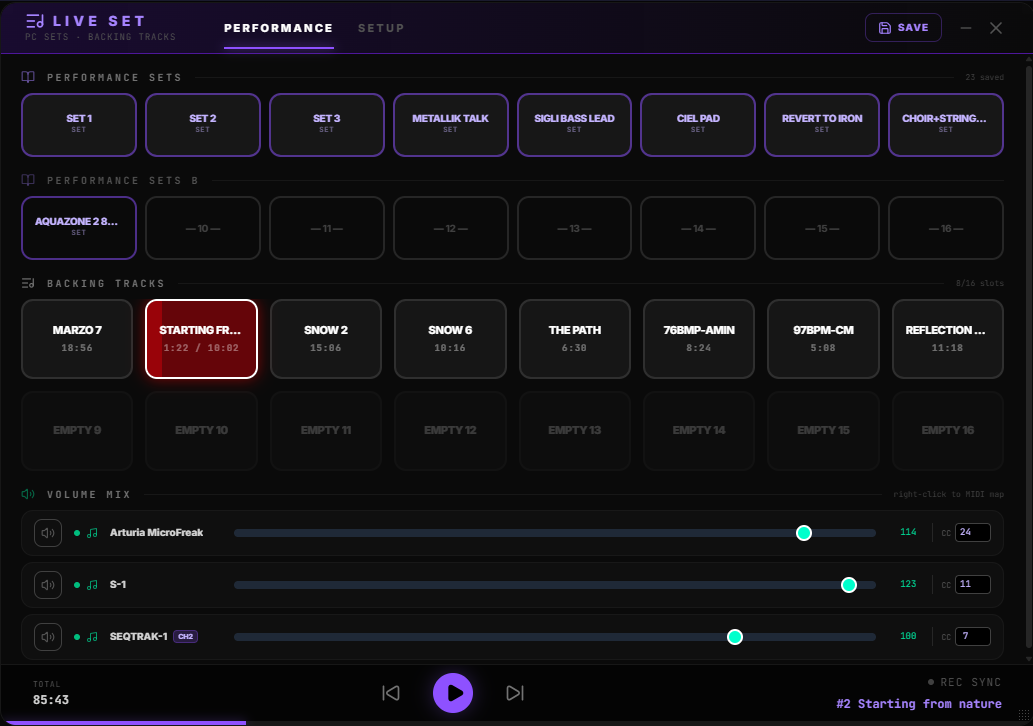
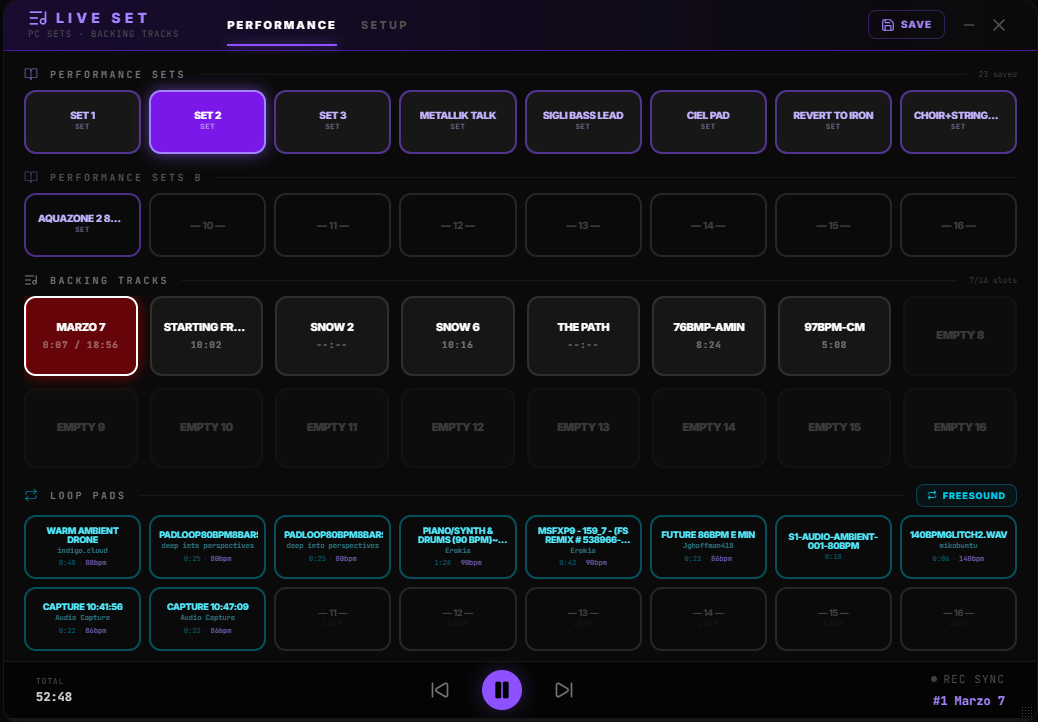
Fixed guides for Audio Capture / Freesound Browser / Live Set.

diff --git a/src/components/FreesoundBrowser.vue b/src/components/FreesoundBrowser.vue
@@ -276,6 +276,20 @@ onUnmounted(() => {
         :style="{ left: pos.x + 'px', top: pos.y + 'px', width: size.w + 'px', height: size.h + 'px' }"
       >
 
+        <!-- ── Capture busy overlay ─────────────────────────────────── -->
+        <Transition name="fade">
+          <div
+            v-if="isSendingToCapture"
+            class="absolute inset-0 z-50 flex flex-col items-center justify-center gap-4 bg-black/70 backdrop-blur-sm rounded-2xl pointer-events-auto select-none"
+          >
+            <div class="w-12 h-12 rounded-full border-2 border-violet-500 border-t-transparent animate-spin" />
+            <div class="text-center">
+              <p class="text-sm font-black uppercase tracking-widest text-white">Capturing…</p>
+              <p class="text-[10px] font-mono text-violet-400 mt-1">Please wait, fetching sound</p>
+            </div>
+          </div>
+        </Transition>
+
         <!-- ── Header / drag handle ───────────────────────────────── -->
         <div
           @mousedown="startDrag"
@@ -726,6 +740,12 @@ onUnmounted(() => {
 </template>
 
 <style scoped>
+.fade-enter-active, .fade-leave-active {
+  transition: opacity 0.2s ease;
+}
+.fade-enter-from, .fade-leave-to {
+  opacity: 0;
+}
 .fade-down-enter-active, .fade-down-leave-active {
   transition: opacity 0.15s ease, transform 0.15s ease;
 }

diff --git a/docs/guides/SYCORE_LIVE_PERFORMANCE_PAD.md b/docs/guides/SYCORE_LIVE_PERFORMANCE_PAD.md
@@ -4,7 +4,7 @@
 
 1. **Performance Sets** — 16 one-touch recall pads for complete device program change states
 2. **Backing Tracks** — a 16-slot playlist pad grid for click-and-play audio tracks
-3. **Volume Mix** — per-device MIDI CC volume faders with mute and MIDI learn
+3. **Loop Pads** — 16 one-touch recall pads for click-and-loop audio, can be mapped to freesound.org sounds
 
 All three can run simultaneously. MIDI mappings allow any pad, track, or fader to be triggered from a hardware controller. Pad layouts can be saved and recalled as **Snapshots**.
 
@@ -35,6 +35,8 @@ Three sub-tabs for configuration:
 ---
 
 ## Performance Sets
+
+<img src="/help/guides/sycore-live-set-performance.png"/>
 
 ### What is a Performance Set?
 
@@ -67,6 +69,8 @@ Right-click any pad to open the MIDI learn context menu. Param name: `lpp_set_N`
 
 ## Backing Tracks
 
+<img src="/help/guides/sycore-live-set-backing-tracks.png"/>
+
 The backing track section uses the `PlaylistPadGrid` component — 16 clickable track pads driven by `livePadStore.playlist`.
 
 - Click a pad to start that track immediately (dispatches `playlist-play` with crossfade).
@@ -88,43 +92,51 @@ A persistent transport bar at the bottom of the Performance tab:
 
 ### REC SYNC
 
-When **REC SYNC** is on and a backing track is playing, the footer background pulses red. This is a visual indicator for the performer to know that backing track playback is synced to Audio Capture recording.
+The **REC SYNC** indicator in the player footer has two independent sources:
 
+| Source | Behaviour |
+|--------|-----------|
+| **MidiSyncMatrix** (Backing Track → Capture or Loop Pads → Capture) | Persistent global setting — survives page reload, shared with all consumers |
+| **Local REC SYNC toggle** (in the Live Performance Pad footer) | Session-only — never writes to the sync store, does not affect MidiSyncMatrix settings |
+
+The indicator lights up when **any** of the three is active. Clicking it toggles only the local session flag; it never overrides the Matrix settings.
+
+When the local toggle is on and a backing track starts or stops, `capture-start-rec` / `capture-stop-rec` events are dispatched to Audio Capture. The footer background pulses red while both local sync and playback are active.
 
 ---
 
-## Volume Mix
+## Loop Pads
 
-Appears when at least one registered device.
+<img src="/help/guides/sycore-live-set-loop-pads.png"/>
 
-### Per-Device Row
+A 16-pad grid (two rows of 8) for triggering looped audio samples. Pads are independent of Performance Sets and can run simultaneously with a backing track.
 
-```
-[🔇 Mute]  ● 🎵  Roland S-1  CH3  [─────────────────────]  84  CC[7]
-```
+### Assigning a sound
 
-| Element | Description |
-|---------|-------------|
-| Mute button | Wraps `port.send()` to block Note On/Off silently; sends `CC 123` first |
-| Online dot | Green if the MIDI output is detected; grey if offline |
-| Device type icon | CPU = audio-interface; Music = instrument |
-| Name + CH badge | CH badge shows only for multitimbral (`instrument-multi`) devices |
-| Volume slider | 0–127; sends the configured CC on value change |
-| CC# input | Which CC to send for volume (default 7 = MIDI Volume) |
+| Method | How |
+|--------|-----|
+| **Freesound Browser** | Click **Pad** on any search result, pick a slot in the pad picker |
+| **Local file** | Click the folder icon on an empty pad — loads MP3/WAV/OGG directly |
+| **Audio Capture** | Click **→ Loop Pad** in Audio Capture, pick a slot in the modal |
 
-### Multitimbral Devices
+Assignments are saved to localStorage (`SYCORE_LPP_LOOP_PADS`) and restored on reload. Sounds from Freesound or Audio Capture are also cached in IndexedDB so they play without re-downloading.
 
-For `instrument-multi` devices, the mix key includes the current MIDI channel: `DeviceName:CH`. Each MIDI channel of a multitimbral device has its own stored volume and CC number. The badge `CH3` updates when the active part changes.
+### Playing and stopping
 
-### Mute Implementation
+- Click an assigned pad to start the loop. The pad glows cyan with a pulsing overlay.
+- Click again to stop. Only one pad plays at a time — starting a new pad fades out the current one (unless crossfade is disabled).
+- The **crossfade toggle** (⚡/≋ button, top-left of pad on hover) switches between smooth crossfade and instant cut.
+- The **clear button** (✕, top-right on hover) removes the assignment.
 
-This intercepts all outgoing messages at the WebMIDI level. CC, PC, SysEx, and clock messages still pass through. The patch is removed on unmute, on component unmount, and on device reconnect (reapplied on reconnect if still muted).
+### BPM sync
 
-Mute state is persisted in `SYCORE_LPP_MIX` (localStorage) so it survives a page reload.
+If the sound has a BPM tag (from Freesound acoustic analysis or manual entry), starting the pad automatically sets the global BPM (`arpStore.arpBpm`, `midiStore.currentBpm`, and the MIDI clock).
 
-### MIDI Learn (Volume)
+### MIDI Learn
 
-Right-click any device row → opens MIDI learn for `lpp_mix_DeviceName`. When a CC arrives mapped to this param name, the CC value (0–127) is applied directly as the volume for that device.
+Right-click any Loop Pad to open the MIDI learn context menu. Param name: `lpp_loop_N` (0-based). The assigned controller LED turns **green** when the pad is playing and **amber** when stopped — identical to Performance Set pad feedback.
+
+Right-click is also available on each slot inside the **Freesound Browser pad picker**, so you can assign MIDI triggers without opening the Live Performance Pad directly.
 
 ---
 
@@ -152,10 +164,13 @@ A dedicated raw MIDI listener runs independently of the main CC listener. It mon
 
 | Param pattern | Trigger |
 |--------------|---------|
-| `lpp_set_N` | Triggers pad N (fires on note-on or CC > 0) |
+| `lpp_set_N` | Triggers Performance Set pad N (fires on note-on or CC > 0) |
+| `lpp_loop_N` | Toggles Loop Pad N (play/stop) |
 | `lpp_bt_N` | Plays backing track N |
 | `lpp_mix_DeviceName` | Sets device volume to the CC value |
 | `lpp_playstop` | Toggles playlist play/stop |
+
+LED feedback is sent for all `lpp_set_N` and `lpp_loop_N` mappings: **green** = active/playing, **amber** = inactive/stopped. The active state for loop pads is tracked in `livePadStore.loopActivePads` and watched by the controller manager.
 
 
 ---
@@ -165,5 +180,10 @@ A dedicated raw MIDI listener runs independently of the main CC listener. It mon
 - **Set order matters:** Pad 1 should be your opener set — it's the first pad a controller will hit if mapped sequentially.
 - **REC SYNC workflow:** Enable REC SYNC before the set. Hit Play — the backing track starts, and a connected Audio Capture will know to start recording simultaneously.
 - **Snapshot discipline:** Save a snapshot before every show with the set name (e.g. `Show 2026-06-01`). Use **Save New** at the top of each show, not **Update**, so you keep historical show configs.
-- **Multitimbral volume:** On multitimbral devices, switch to each MIDI part and set its volume independently. The mix state stores a separate level per part per device.
-- **Mute on reconnect:** If a MIDI device disconnects and reconnects mid-show, SY.CORE reapplies mutes automatically via the `watch(midiStore.outputs)` watcher.
+- **Loop Pad BPM tagging:** When assigning a Freesound sound to a pad, enter the BPM in the picker. Starting that pad will sync the global clock to its tempo automatically.
+- **Loop Pad MIDI grid:** Map `lpp_loop_0` through `lpp_loop_15` to a grid of 16 pads on your controller. Green = playing, amber = stopped — your controller mirrors the pad state live.
+- **REC SYNC isolation:** The REC SYNC toggle in the player footer is session-only — it won't break your MidiSyncMatrix configuration. Use the Matrix for persistent show-night sync; use the footer toggle for quick ad-hoc recording during rehearsal.
+
+---
+
+*Last updated: 2026-06-08*

diff --git a/docs/guides/SYCORE_AUDIO_CAPTURE.md b/docs/guides/SYCORE_AUDIO_CAPTURE.md
@@ -135,10 +135,37 @@ In **Manual** mode a small Play/Stop button appears next to the mode selector. C
 | Action | Result |
 |--------|--------|
 | **MP3** | Exports the selected loop region as 192kbps MP3 (via `@breezystack/lamejs`) |
-| **Save (WAV / WebM)** | If the loop is cropped: exports a 16-bit WAV; otherwise the raw WebM/OGG |
+| **Save (WAV / WebM)** | If the loop is cropped: exports a 16-bit WAV; otherwise the raw WebM/OGG. A companion `.s1loop.json` sidecar is downloaded alongside it (see below). |
 | **+PL (Nx)** | Sends the cropped region to the backing track playlist (with repeat count) |
-| **→ Looper (T1–T8)** | Decodes and loads the cropped region into a Looper track slot |
-| **Import** | Loads any MP3/OGG/WAV file as the "recording" for editing/re-export |
+| **→ Loop Pad** | Opens the Loop Pad assignment modal — crop is encoded as WAV, cached in IndexedDB, and assigned to the chosen pad in Live Performance Pad |
+| **Import** | Loads any MP3/OGG/WAV file as the "recording" for editing/re-export. Drop a `.s1loop.json` sidecar to restore loop points without reloading audio. |
+
+### Loop Point Sidecar (`.s1loop.json`)
+
+Every WAV and MP3 export downloads a companion `.s1loop.json` file alongside the audio. It stores:
+
+| Field | Description |
+|-------|-------------|
+| `loopStart` | Loop start position in seconds |
+| `loopEnd` | Loop end position in seconds |
+| `playbackStart` | Play start offset in seconds |
+| `isLooping` | Whether the loop was active at export time |
+
+To restore: import the `.s1loop.json` file via the **Import** button (or the file input). The loop markers snap back to their saved positions without reloading the audio. Useful for resuming editing across sessions.
+
+### Loop Pad Assignment Modal
+
+Clicking **→ Loop Pad** opens a 4×4 modal grid showing all 16 pads with their current assignments:
+
+<img src="/help/guides/sycore-audio-capture-to-loop-pad.png"/>
+
+- Occupied pads show track name, duration, and BPM.
+- Empty pads show "empty".
+- The selected pad is highlighted in cyan.
+- If the target pad is already occupied, an amber **overwrite** badge appears as a warning.
+- A summary line at the bottom describes the outcome (`→ replaces "…"` or `→ Pad N (empty)`).
+
+After confirming, the cropped audio is encoded as WAV, cached in IndexedDB (so the pad survives page reload), and dispatched via `loop-pad-assign` to Live Performance Pad.
 
 ### Normalization
 
@@ -168,6 +195,12 @@ When `isLooping` is true and the active audio element reaches `loopEnd - crossfa
 4. `isCrossfading` flag prevents re-triggering until the swap completes.
 
 This produces gapless looping for sample-accurate material when crossfade = 0, or smooth blended loops when crossfade > 0.
+
+---
+
+## Footer Recording Indicator
+
+Whenever Audio Capture is actively recording, a pulsing red **REC** badge appears in the app footer — visible even when the Audio Capture panel is closed or minimised. Clicking the badge opens the Audio Capture panel. The badge reflects any recording trigger: direct panel use, backing-track sync, or Loop Pad REC SYNC.
 
 ---
 
@@ -219,8 +252,14 @@ The capture panel supports free-form resizing: drag any corner or edge to adjust
 
 - **Headless recording:** Fire `capture-start-rec` with `detail.background = true` to record without opening the panel. The monitor starts automatically.
 - **BPM grid alignment:** Set the BPM in your MIDI clock source before recording. The waveform grid and snap grid will align to bars automatically.
-- **Looper transfer:** Record a loop, crop with Loop Start/End handles, then send to any of the 8 Looper tracks with `→ Looper`.
+- **Loop Pad transfer:** Record a loop, set Loop Start/End handles, then click **→ Loop Pad** to open the assignment modal. Pick an empty pad (or overwrite an existing one) and confirm — the cropped audio lands in the Live Performance Pad grid ready to play.
 - **MP3 range export:** The MP3 export always respects the current Loop Start/End crop — you get only what's between the handles.
 - **Building a long take with Append:** Enable Append, record a section, stop, then record again — each stop merges the new chunk onto the growing capture. Disable Append when you want to start fresh.
 - **Normalize before exporting:** Run NORM after recording to bring the level up before MP3 or WAV export. The GATE slider is especially useful for recordings with noisy silence between phrases.
 - **Manual timeline for count-in:** Set the timeline to Manual mode and tap ▶ a bar before hitting REC — the sweep gives you a visual count-in at the current BPM without affecting the recording.
+- **Restore loop points across sessions:** Always export the WAV and the `.s1loop.json` together. On your next session, import the audio first, then import the sidecar — your loop start, end, and play start snap back exactly.
+- **Footer REC indicator:** The pulsing red REC badge in the footer is your safety net — if the panel is behind other windows you always know recording is active. Click it to bring the panel to focus.
+
+---
+
+*Last updated: 2026-06-08*

diff --git a/docs/guides/SYCORE_FREESOUND_BROWSER.md b/docs/guides/SYCORE_FREESOUND_BROWSER.md
@@ -103,13 +103,19 @@ The assignment dispatches a `loop-pad-assign` custom event. The **Live Performan
 
 > Clicking **Pad** again on the same sound before assigning cancels the picker.
 
+#### MIDI Learn for pad slots
+
+Right-click any slot button in the pad picker to open the MIDI learn context menu for that slot. Param name: `lpp_loop_N` (0-based). Once mapped, the hardware controller LED turns **green** when that pad is playing and **amber** when stopped. The same right-click is available directly on the Loop Pad buttons inside the Live Performance Pad panel.
+
 ### Capture — Send to Audio Capture
 
 1. Click **Capture** on the sound you want to work with
 2. A BPM picker appears inline — pre-filled with the sound's analysed BPM or the current global BPM
 3. Adjust BPM if needed, then click **Send**
 
-The browser fetches the full preview blob (or uses the local cache), then dispatches a `freesound-send-to-capture` event with the blob, metadata, and BPM. The **Audio Capture** panel loads it as a new recording, sets the BPM, and runs automatic loop-point discovery.
+The browser fetches the full preview blob (or uses the local cache), then dispatches a `freesound-send-to-capture` event with the blob, metadata, and BPM. The **Audio Capture** panel loads it as a new recording and runs automatic loop-point discovery.
+
+When a BPM is confirmed, the global BPM is updated everywhere: `arpStore.arpBpm` (footer display and arpeggiator), `midiStore.currentBpm`, and the MIDI clock output.
 
 > The **Capture** button shows a spinner (`…`) and is disabled while the fetch is in progress.
 
@@ -190,4 +196,4 @@ The `useFreesoundCache` composable maintains a reactive `cachedIds` Set at modul
 
 ---
 
-*Last updated: 2026-06-07*
+*Last updated: 2026-06-08*
